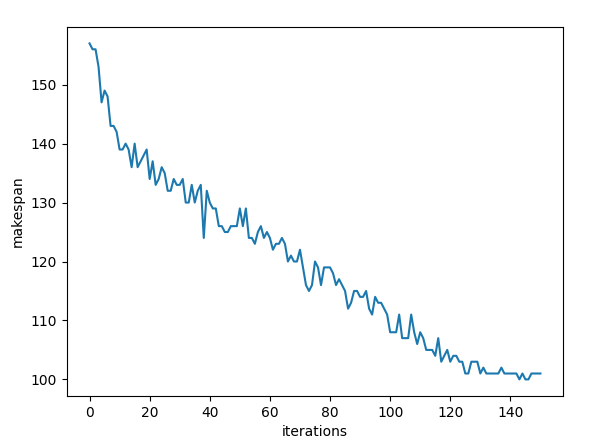
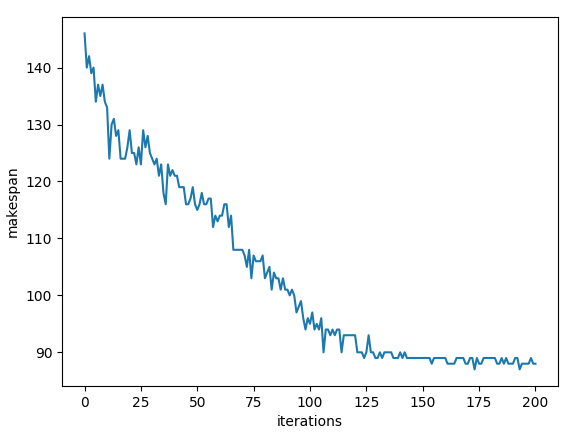
update imgs

Changed region(s): [[0.0, 0.03, 0.9791, 0.9885]]

diff --git a/timetable.py b/timetable.py
@@ -190,4 +190,5 @@ class TimeTable:
                     
                 scheduleString+=char*dur
             print(scheduleString)
+            print(scheduleString)
         

diff --git a/main.py b/main.py
@@ -4,7 +4,7 @@ import matplotlib.pyplot as plt
 
 POP_SIZE = 2000
 ITERATIONS = 200
-MUTATION_RATE = 0.1
+MUTATION_RATE = 0.2
 TASKS_CNT = 80
 
 MIN_DUR = 3
